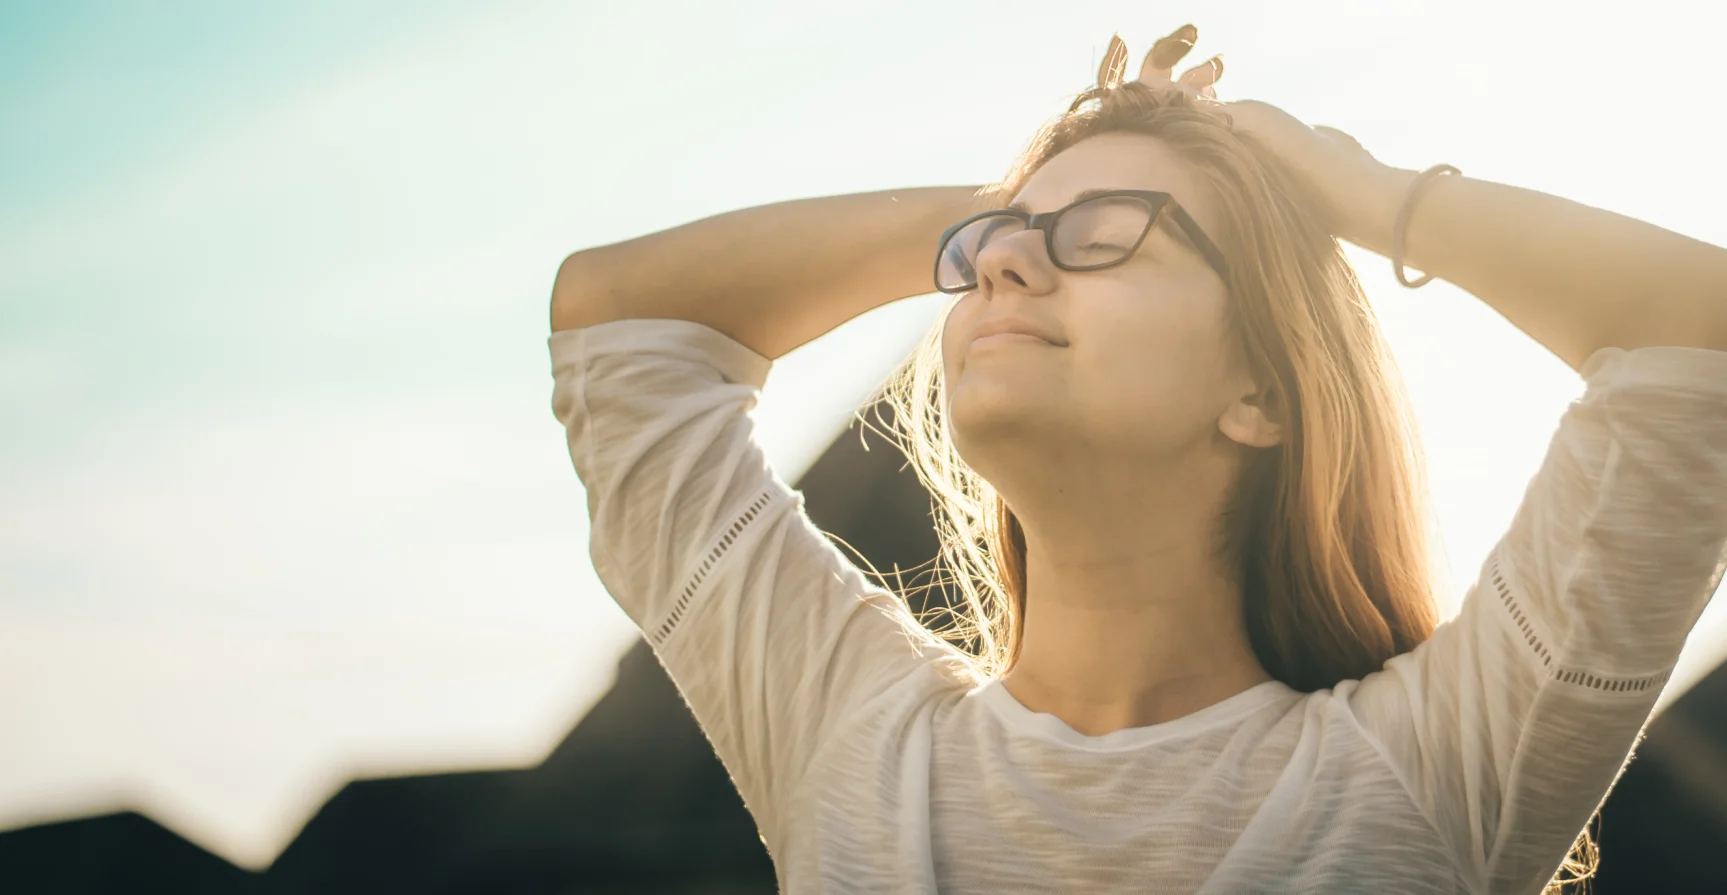
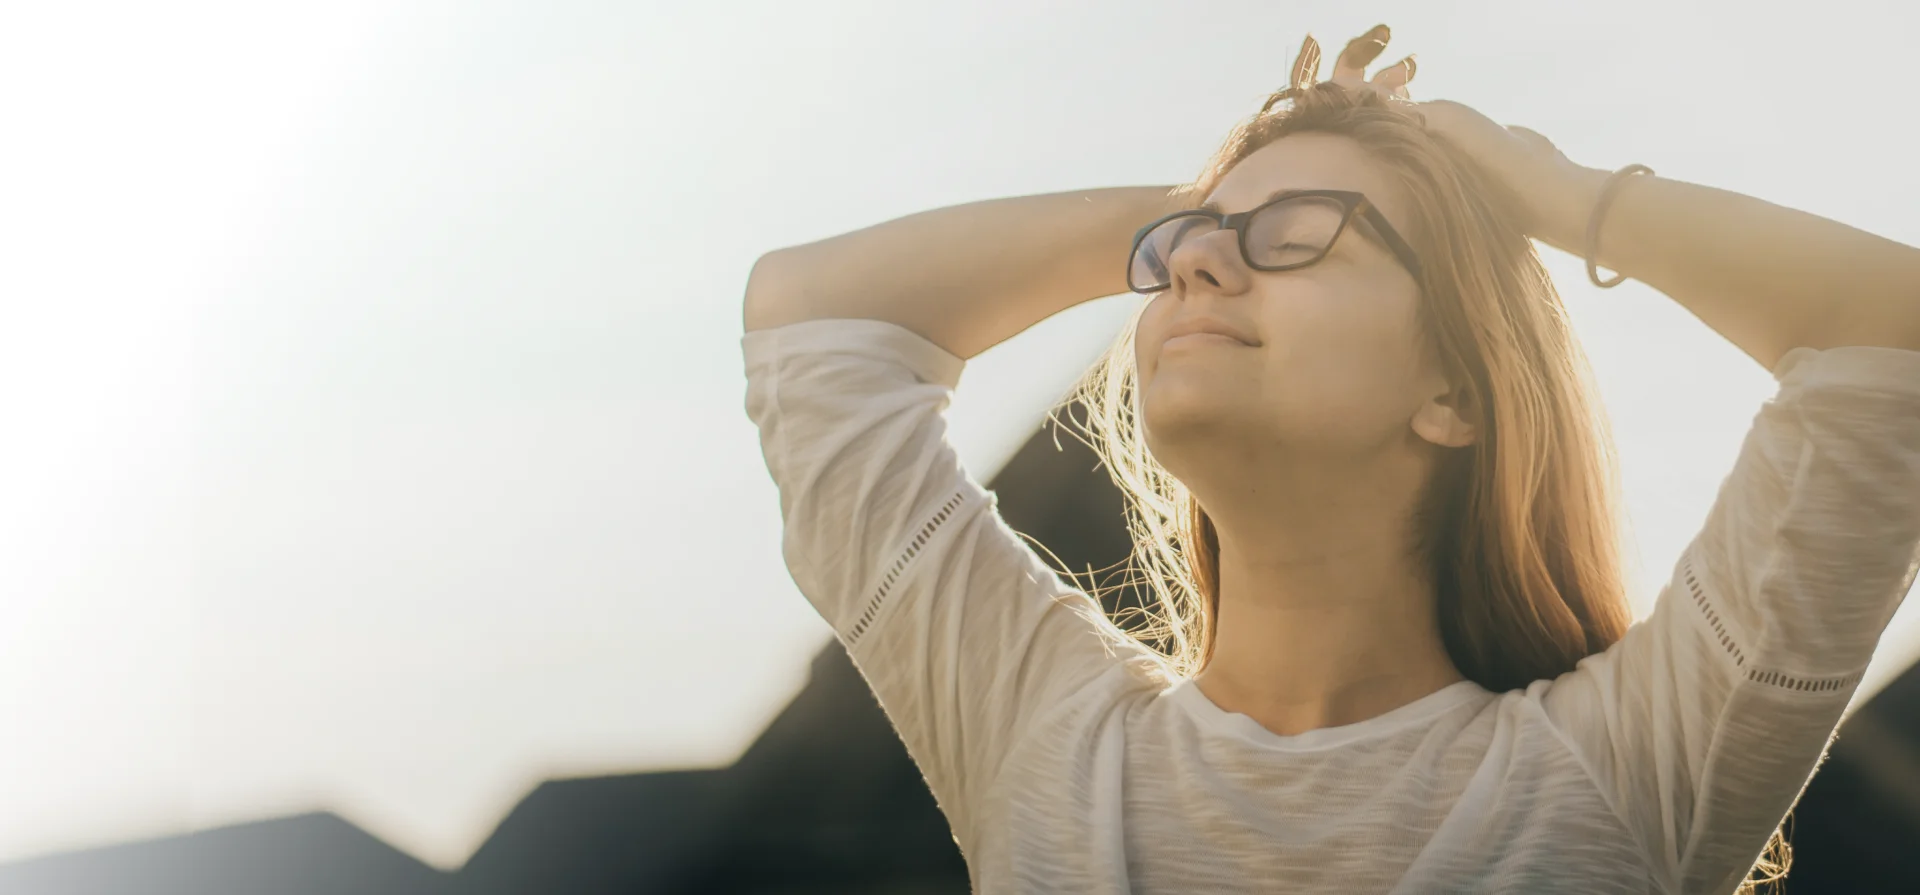
hero section implementation

diff --git a/index.html b/index.html
@@ -17,9 +17,9 @@
     <div class="container">
       <div class="header__wrapper">
         <svg class="logo" aria-label="logo">
-          <use href="/assets/sprites.svg#logo-icon"></use>
+          <use href="assets/sprites.svg#logo-icon"></use>
         </svg>
-        <nav class="header__nav" aria-label="navigation list">
+        <nav class="header__nav" aria-label="navigation">
           <ul class="header__nav-list">
             <li class="heder__nav-item"><a href="" class="header__nav-link">Why Alivio</a></li>
             <li class="heder__nav-item"><a href="" class="header__nav-link">Solutions</a></li>
@@ -34,6 +34,17 @@
       </div>
     </div>
   </header>
+  <main>
+    <section class="hero" aria-label="hero section">
+      <div class="container">
+        <div class="hero__content">
+          <h1 class="hero__title">Be aware, Manage well.</h1>
+          <p class="hero__desc" aria-label="main description">Everyone experiences stress in different ways. Let Alivio guide you, in a personalized journal experience, to overcome your stress.</p>
+          <button type="button" class="btn">Find Your Way</button>
+        </div>
+      </div>
+    </section>
+  </main>
 </body>
 </html>
 

diff --git a/styles/hero.css b/styles/hero.css
@@ -1,0 +1,55 @@
+.hero {
+  background: url('../assets/webp/hero_bg.webp') no-repeat center / cover;  
+  width: 100%;
+  height: 890px;
+}
+
+.hero__content {
+  padding: 180px 0 0 0;
+  max-width: 420px;
+  display: flex;
+  flex-direction: column;
+  justify-content: start;
+  align-items: start;
+}
+.hero__title {  
+  font-weight: 700;
+  font-size: 65px;
+  color: var(--co-green);
+}
+
+.hero__desc {
+  margin: 25px 0 50px;
+  color: var(--co-light-black);
+  font-weight: 400;
+  font-size: 20px;
+  line-height: 157%;
+}
+
+.hero__content .btn {
+  width: 230px;
+  height: 65px;
+}
+
+@media (max-width: 768px) {
+  .hero {
+    height: 700px;
+  }
+
+  .hero__content {
+    padding: 80px 0 0 0;
+  }
+}
+
+@media (max-width: 480px) {
+  .hero {
+    background: linear-gradient(180deg, rgba(245, 246, 252, 0.52), rgba(255, 176, 139, 0.28)), url('../assets/webp/hero_bg.webp') no-repeat 60% 50% / cover;  
+    width: 100%;
+    height: 890px;
+  }
+
+  .hero__title {  
+    font-size: 50px;
+    max-width: 350px;
+  }
+}

diff --git a/styles/basic.css b/styles/basic.css
@@ -19,6 +19,14 @@ a {
   color: unset;
 }
 
+h1, h2, h3, h4, h5, h6 {
+  margin: 0;
+}
+
+p {
+  margin: 0;
+}
+
 .container {
   max-width: 1400px;
   padding: 0 10px;

diff --git a/styles/header.css b/styles/header.css
@@ -35,7 +35,7 @@
   
 }
 .header__nav-link:focus-visible {
-  outline: var(--dark-green) 2px dotted ;
+  outline: var(--co-dark-green) 2px dotted ;
   
 }
 

diff --git a/index.css b/index.css
@@ -1,3 +1,4 @@
 @import url('styles/variables.css');
 @import url('styles/basic.css');
 @import url('styles/header.css');
+@import url('styles/hero.css');

diff --git a/styles/variables.css b/styles/variables.css
@@ -3,6 +3,7 @@
     --co-green: #00835d;
     --co-dark-green: #245852;
     --co-black: #292929;
+    --co-light-black: #484848;
 
 }
 
